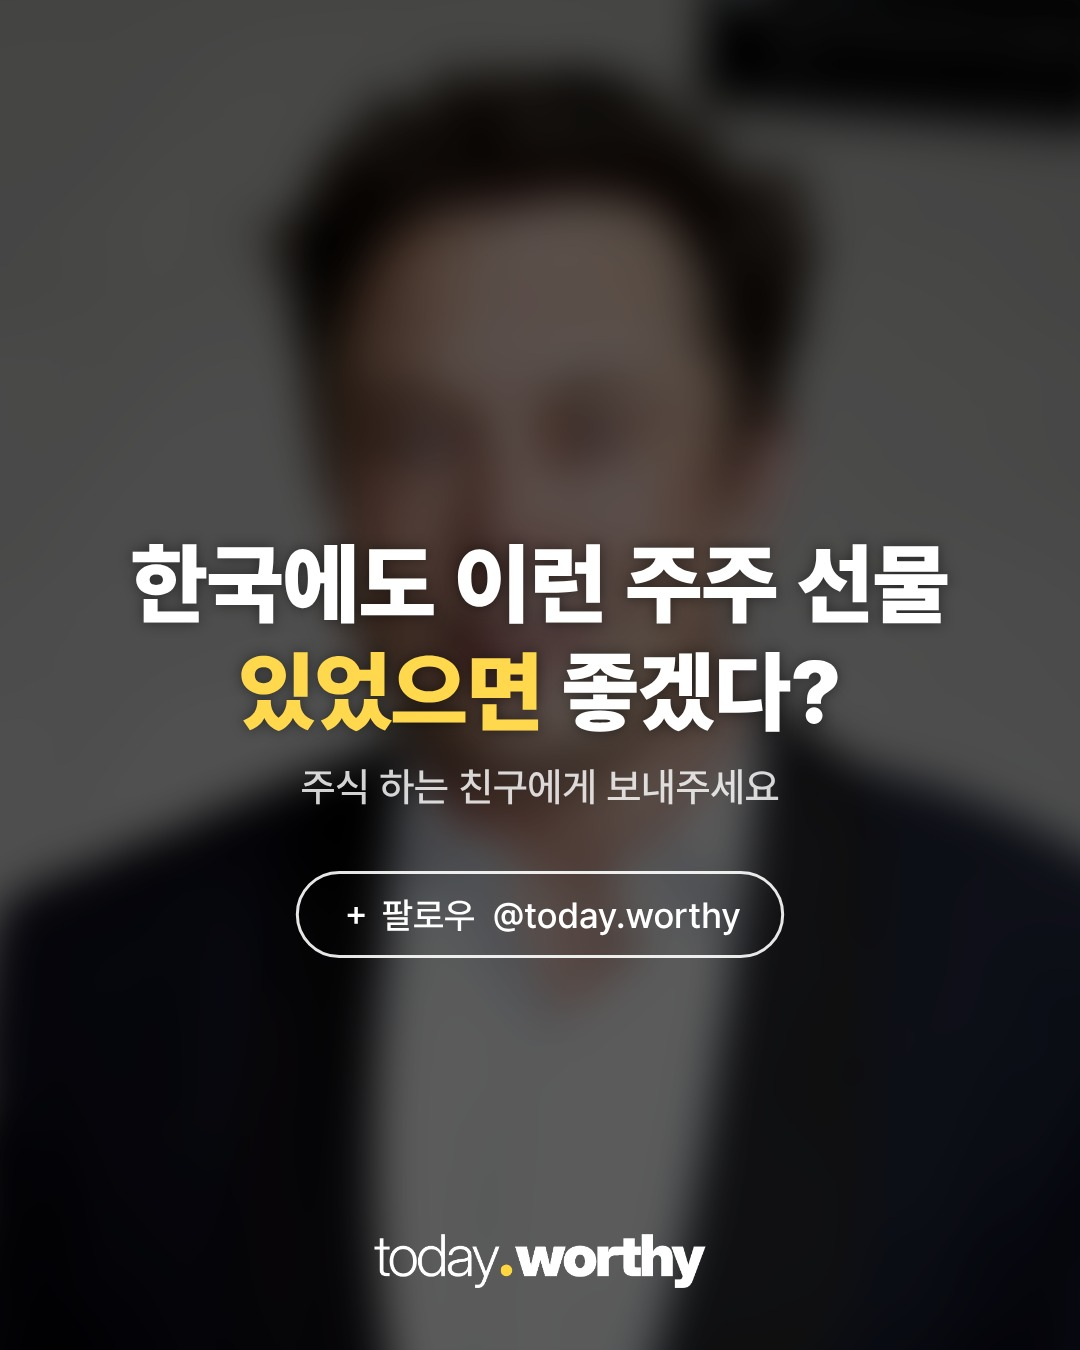
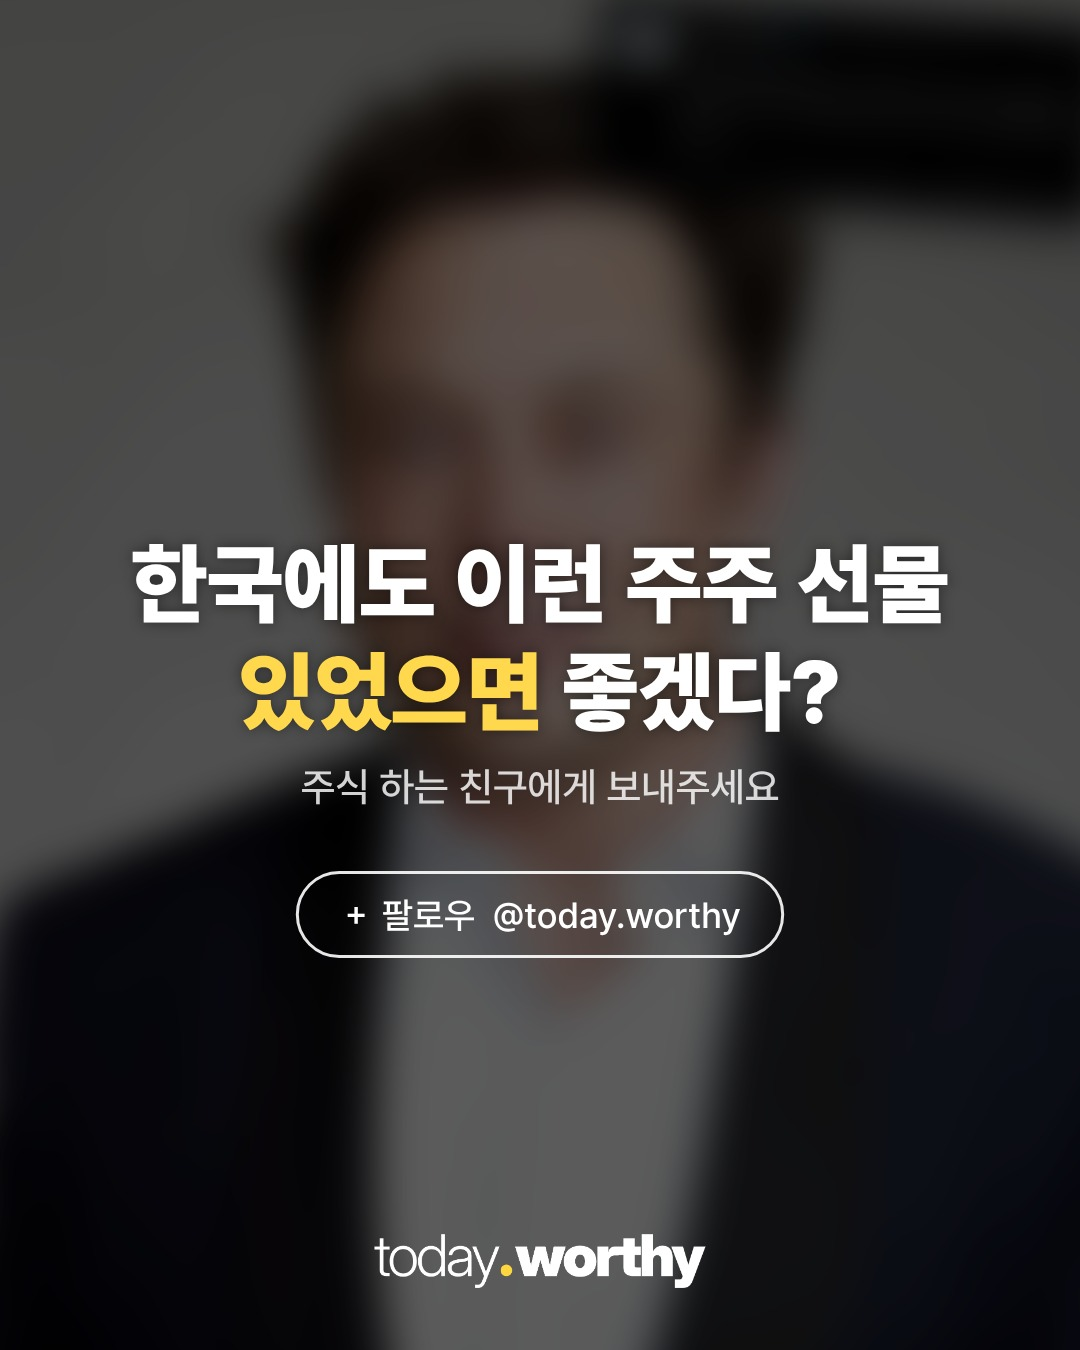
musk: 표지 캡처 카드 키워서 머리 위로
Claude-Session: https://claude.ai/code/session_01FGsw5S4nGrZdCJo7qBU1wE

Changed region(s): [[0.55, 0.0, 1.0, 0.1867], [0.7333, 0.0, 1.0, 0.0311]]

diff --git a/media/20261126-musk/make_cover.py b/media/20261126-musk/make_cover.py
@@ -10,7 +10,7 @@ a = np.asarray(bg).astype(float); lum = a.mean(2); sat = a.max(2) - a.min(2)
 person = ((lum < 150) | (sat > 40)).astype(np.uint8) * 255
 mask = Image.fromarray(person).filter(ImageFilter.MaxFilter(5)).filter(ImageFilter.MinFilter(5)).filter(ImageFilter.GaussianBlur(1.5))
 cap = Image.open(D / "cand/musk_cap_real.png").convert("RGB")
-w = 350; cap = cap.resize((w, round(cap.height * w / cap.width)), Image.LANCZOS); h = cap.height
+w = 440; cap = cap.resize((w, round(cap.height * w / cap.width)), Image.LANCZOS); h = cap.height
 pad = 10; card = Image.new("RGBA", (w + 2 * pad, h + 2 * pad), (0, 0, 0, 0)); d = ImageDraw.Draw(card)
 d.rounded_rectangle((0, 0, card.width - 1, card.height - 1), 18, fill=(0, 0, 0, 255), outline=(80, 80, 88, 255), width=2)
 m = Image.new("L", cap.size, 0); ImageDraw.Draw(m).rounded_rectangle((0, 0, w - 1, h - 1), 10, fill=255)
@@ -18,9 +18,9 @@ card.paste(cap, (pad, pad), m)
 card = card.rotate(-4, expand=True, resample=Image.BICUBIC)
 sh = Image.new("RGBA", (card.width + 60, card.height + 60), (0, 0, 0, 0)); sh.paste((0, 0, 0, 110), (30, 40), card.split()[3])
 sh = sh.filter(ImageFilter.GaussianBlur(14))
-x, y = 1080 - card.width - 16, 14
+x, y = 1080 - card.width - 24, 60
 out = bg.convert("RGBA"); out.alpha_composite(sh, (x - 30, y - 30)); out.alpha_composite(card, (x, y))
-out = Image.composite(bg.convert("RGBA"), out, mask)  # 인물(머리)이 카드 위로
+# out = Image.composite(bg.convert("RGBA"), out, mask)  # 인물(머리)이 카드 위로
 out.convert("RGB").save(D / "cand/cover_bg.jpg", quality=94)
 mask.save(D / "cand/person_mask.png")
 print("ok", x, y, card.size)
